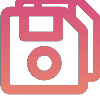
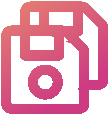
Fixed some issues: 1. BF removed/added/active/inactive/moved on a runner would not mark the runner as dirty 2. renamed GingerUIPage CurrentItem into CurrentItemToSave as some pages had CurrentItem property 3. fixed an issue where creating a new solution would throw an exception 4. Current Selected I

diff --git a/Ginger/Ginger/MainWindow.xaml b/Ginger/Ginger/MainWindow.xaml
@@ -208,7 +208,7 @@
                         </Grid>
 
                         <Grid DockPanel.Dock="Right" HorizontalAlignment="Right" VerticalAlignment="Center">
-                            <usercontrols:ucButton x:Name="xSaveCurrentBtn" ButtonType="ImageButton" ToolTip="No Item Selected" ToolTipOpening="xSaveCurrentBtn_ToolTipOpening" ButtonFontImageSize="20" ButtonImageWidth="20" ButtonImageHeight="20" ButtonImageType="Save" Click="xSaveCurrentBtn_Click" ButtonStyle="{StaticResource $ImageButtonStyle_Menu}" DockPanel.Dock="Right" HorizontalAlignment="Right" VerticalAlignment="Center" Margin="0,0,0,0"/>
+                            <usercontrols:ucButton x:Name="xSaveCurrentBtn" ButtonType="ImageButton" ToolTip="No Item Selected" ToolTipOpening="xSaveCurrentBtn_ToolTipOpening" ButtonFontImageSize="20" ButtonImageWidth="20" ButtonImageHeight="20" ButtonImageType="SaveLightGrey" MouseEnter="xSaveCurrentBtn_MouseEnter" MouseLeave="xSaveCurrentBtn_MouseLeave" Click="xSaveCurrentBtn_Click" ButtonStyle="{StaticResource $ImageButtonStyle_Menu}" DockPanel.Dock="Right" HorizontalAlignment="Right" VerticalAlignment="Center" Margin="0,0,0,0"/>
                             <usercontrols:ImageMakerControl x:Name="xModifiedLabel" SetAsFontImageWithSize="8" Margin="5" Foreground="{DynamicResource $HighlightColor_Orange}" ImageType="Empty" HorizontalAlignment="Right" VerticalAlignment="Top"/>
                         </Grid>
                     </DockPanel>

diff --git a/Ginger/GingerCoreCommon/Repository/RepositoryItemBase.cs b/Ginger/GingerCoreCommon/Repository/RepositoryItemBase.cs
@@ -115,6 +115,8 @@ namespace Amdocs.Ginger.Repository
             }
         }
 
+        private ConcurrentQueue<RepositoryItemBase> mSourceDirtyQueue = new ConcurrentQueue<RepositoryItemBase>();
+        public ConcurrentQueue<RepositoryItemBase> SourceDirtyQueue { get { return mSourceDirtyQueue; } }
         public virtual string ObjFileExt
         {
             get
@@ -1072,6 +1074,10 @@ namespace Amdocs.Ginger.Repository
 
         internal void RaiseDirtyChanged(object sender, EventArgs e)
         {
+            if (!SourceDirtyQueue.Contains(sender as RepositoryItemBase))
+            {
+                SourceDirtyQueue.Enqueue(sender as RepositoryItemBase);
+            }
             DirtyStatus = eDirtyStatus.Modified;
             // RaiseDirtyChangedEvent();
         }
@@ -1081,8 +1087,8 @@ namespace Amdocs.Ginger.Repository
         internal void ChildCollectionChanged(object sender, NotifyCollectionChangedEventArgs e)
         {
             // each change in Observavle will mark the item modified - all NotifyCollectionChangedAction.*
-            DirtyStatus = eDirtyStatus.Modified;
 
+            #region Collection Action - Add
             // if item added set tracking too
             if (e.Action == NotifyCollectionChangedAction.Add)
             {
@@ -1093,6 +1099,7 @@ namespace Amdocs.Ginger.Repository
                         RepositoryItemBase repositoryItemBase = (RepositoryItemBase)obj;
                         repositoryItemBase.StartDirtyTracking();
                         repositoryItemBase.OnDirtyStatusChanged += this.RaiseDirtyChanged;
+                        repositoryItemBase.DirtyStatus = eDirtyStatus.Modified;
                     }
                     else
                     {
@@ -1100,6 +1107,45 @@ namespace Amdocs.Ginger.Repository
                     }
                 }
             }
+            #endregion
+            #region Collection Action - Remove Or Move
+            else if (e.Action == NotifyCollectionChangedAction.Remove || e.Action == NotifyCollectionChangedAction.Move)
+            {
+                foreach (object obj in e.OldItems)
+                {
+                    if (obj is RepositoryItemBase)
+                    {
+                        ((RepositoryItemBase)obj).DirtyStatus = eDirtyStatus.Modified;
+                    }
+                }
+            }
+            #endregion
+            #region Collection Action - Replace
+            else if (e.Action == NotifyCollectionChangedAction.Replace)
+            {
+                foreach (object obj in e.NewItems)
+                {
+                    if (obj is RepositoryItemBase)
+                    {
+                        ((RepositoryItemBase)obj).DirtyStatus = eDirtyStatus.Modified;
+                    }
+                }
+                foreach (object obj in e.OldItems)
+                {
+                    if (obj is RepositoryItemBase)
+                    {
+                        ((RepositoryItemBase)obj).DirtyStatus = eDirtyStatus.Modified;
+                    }
+                }
+
+            }
+            #endregion
+            #region Collection Action - Reset
+            else
+            {
+                DirtyStatus = eDirtyStatus.Modified;
+            }
+            #endregion
         }
 
         public void PauseDirtyTracking()
@@ -1265,6 +1311,10 @@ namespace Amdocs.Ginger.Repository
         public void SetDirtyStatusToNoChange()
         {
             DirtyStatus = eDirtyStatus.NoChange;
+            if(SourceDirtyQueue.Count > 0)
+            {
+                SourceDirtyQueue.Clear();
+            }
 
             // Properties
             foreach (PropertyInfo PI in this.GetType().GetProperties())

diff --git a/Ginger/Ginger/Reports/HTMLReportsConfigurationPage.xaml.cs b/Ginger/Ginger/Reports/HTMLReportsConfigurationPage.xaml.cs
@@ -45,7 +45,7 @@ namespace Ginger.Reports
         {
             mHTMLReportConfiguration =  WorkSpace.Instance.Solution.HTMLReportsConfigurationSetList.Where(x => (x.IsSelected == true)).FirstOrDefault();
             mHTMLReportConfiguration.StartDirtyTracking();
-            CurrentItem = WorkSpace.Instance.Solution;
+            CurrentItemToSave = WorkSpace.Instance.Solution;
             GingerCore.GeneralLib.BindingHandler.ObjFieldBinding(LimitReportFolder, CheckBox.IsCheckedProperty, mHTMLReportConfiguration, nameof(mHTMLReportConfiguration.LimitReportFolderSize));
             GingerCore.GeneralLib.BindingHandler.ObjFieldBinding(xCentralizedReportDataServiceURLTextBox, TextBox.TextProperty, mHTMLReportConfiguration, nameof(mHTMLReportConfiguration.CentralizedReportDataServiceURL));
             GingerCore.GeneralLib.BindingHandler.ObjFieldBinding(xCentralizedHtmlReportServiceURLTextBox, TextBox.TextProperty, mHTMLReportConfiguration, nameof(mHTMLReportConfiguration.CentralizedHtmlReportServiceURL));

diff --git a/Ginger/Ginger/RunSetPageLib/RunnerPage.xaml.cs b/Ginger/Ginger/RunSetPageLib/RunnerPage.xaml.cs
@@ -257,6 +257,7 @@ namespace Ginger.Run
             {
                 BusinessFlow bff = (BusinessFlow)((RunnerItemPage)sender).ItemObject;
                 ExecutorEngine.BusinessFlows.Remove(bff);
+                mExecutorEngine.GingerRunner.DirtyStatus = eDirtyStatus.Modified;
             }
         }
 
@@ -285,6 +286,7 @@ namespace Ginger.Run
             {
                 mExecutorEngine.BusinessFlows.Add(bf);
             }
+            mExecutorEngine.GingerRunner.DirtyStatus = eDirtyStatus.Modified;
         }
 
         public void LoadBusinessflowRunnerItem(bool ViewMode = false)
@@ -421,6 +423,7 @@ namespace Ginger.Run
             {
                 ((RunnerItemPage)sender).xItemName.Foreground = FindResource("$BackgroundColor_DarkBlue") as Brush;
             }
+            mExecutorEngine.GingerRunner.DirtyStatus = eDirtyStatus.Modified;
         }
         private void Businessflow_ClickAutomate(object sender, RoutedEventArgs e)
         {

diff --git a/Ginger/Ginger/Reports/HTMLReportTemplatePage.xaml.cs b/Ginger/Ginger/Reports/HTMLReportTemplatePage.xaml.cs
@@ -78,7 +78,7 @@ namespace Ginger.Reports
             _HTMLReportConfiguration.HTMLReportConfigurationOperations = reportConfigurationOperations;
 
             _HTMLReportConfiguration = new HTMLReportConfiguration("", false, reportConfigurationOperations);
-            CurrentItem = _HTMLReportConfiguration;
+            CurrentItemToSave = _HTMLReportConfiguration;
             
 
             InitializeComponent();
@@ -95,7 +95,7 @@ namespace Ginger.Reports
             _existingTemplatePage = true;
             _HTMLReportConfiguration = EnchancingLoadedFieldsWithDataAndValidating(HTMLReportConfiguration);
             _HTMLReportConfiguration.PropertyChanged += _HTMLReportConfiguration_PropertyChanged;
-            CurrentItem = _HTMLReportConfiguration;
+            CurrentItemToSave = _HTMLReportConfiguration;
             SetControls();
             SetLoadedLogoImage();
             SetHTMLReportsConfigFieldsGridsView();

diff --git a/Ginger/Ginger/RunSetPageLib/NewRunSetPage.xaml.cs b/Ginger/Ginger/RunSetPageLib/NewRunSetPage.xaml.cs
@@ -556,6 +556,7 @@ namespace Ginger.Run
             else if (e.Action == NotifyCollectionChangedAction.Move)
             {
                 mCurrentSelectedRunner.BusinessflowRunnerItems.Move(e.OldStartingIndex, e.NewStartingIndex);
+                mCurrentSelectedRunner.ExecutorEngine.GingerRunner.DirtyStatus = eDirtyStatus.Modified;
             }
             this.Dispatcher.Invoke(() =>
             {
@@ -1425,7 +1426,7 @@ namespace Ginger.Run
                     xRunSetLoadingPnl.Visibility = Visibility.Visible;
                     xRunsetPageGrid.Visibility = Visibility.Collapsed;
                     mRunSetConfig = runSetConfig;
-                    CurrentItem = mRunSetConfig;
+                    CurrentItemToSave = mRunSetConfig;
                     mRunSetConfig.SaveBackup();
 
                     mRunSetConfig.StartDirtyTracking();

diff --git a/Ginger/Ginger/ExternalConfigurations/SealightsExternalConfigurationsPage.xaml.cs b/Ginger/Ginger/ExternalConfigurations/SealightsExternalConfigurationsPage.xaml.cs
@@ -36,7 +36,7 @@ namespace Ginger.Configurations
     /// </summary>
     public partial class SealightsExternalConfigurationsPage : GingerUIPage
     {
-        SealightsConfiguration _SealightsConfiguration = new SealightsConfiguration();
+        SealightsConfiguration _SealightsConfiguration;
 
         public SealightsExternalConfigurationsPage()
         {
@@ -47,9 +47,9 @@ namespace Ginger.Configurations
         private void Init()
         {
             _SealightsConfiguration = WorkSpace.Instance.Solution.SealightsConfiguration;
-            _SealightsConfiguration.StartDirtyTracking();
-            CurrentItem = WorkSpace.Instance.Solution;
+            CurrentItemToSave = WorkSpace.Instance.Solution;
             SetControls();
+            _SealightsConfiguration.StartDirtyTracking();
         }
 
         private void SetControls()

diff --git a/Ginger/GingerCoreNET/WorkSpaceLib/SolutionOperations.cs b/Ginger/GingerCoreNET/WorkSpaceLib/SolutionOperations.cs
@@ -200,9 +200,12 @@ namespace Ginger.SolutionGeneral
                 Solution.RepositorySerializer.SaveToFile(Solution, Solution.FilePath);
                 Solution.SetDirtyStatusToNoChange();
                 Reporter.HideStatusMessage();
-                if (WorkSpace.Instance.SolutionRepository.ModifiedFiles.Contains(Solution))
+                if (WorkSpace.Instance.SolutionRepository != null)
                 {
-                    WorkSpace.Instance.SolutionRepository.ModifiedFiles.Remove(Solution);
+                    if (WorkSpace.Instance.SolutionRepository.ModifiedFiles.Contains(Solution))
+                    {
+                        WorkSpace.Instance.SolutionRepository.ModifiedFiles.Remove(Solution);
+                    }
                 }
             }
         }

diff --git a/Ginger/Ginger/DataSource/DataSourcePage.xaml.cs b/Ginger/Ginger/DataSource/DataSourcePage.xaml.cs
@@ -60,7 +60,7 @@ namespace Ginger.DataSource
             if (dsDetails != null)    
             {
                 mDSDetails = dsDetails;
-                CurrentItem= mDSDetails;
+                CurrentItemToSave= mDSDetails;
                 GingerCore.GeneralLib.BindingHandler.ObjFieldBinding(DataSourceNameTextBox, TextBox.TextProperty, mDSDetails, DataSourceBase.Fields.Name);
                 GingerCore.GeneralLib.BindingHandler.ObjFieldBinding(txtDataSourcePath, TextBox.TextProperty, mDSDetails, DataSourceBase.Fields.FilePath, BindingMode.OneWay);
                 GingerCore.GeneralLib.BindingHandler.ObjFieldBinding(DataSourceTypeTextBox, TextBox.TextProperty, mDSDetails, DataSourceBase.Fields.DSType, BindingMode.OneWay);

diff --git a/Ginger/Ginger/UserControlsLib/GingerUIPage.cs b/Ginger/Ginger/UserControlsLib/GingerUIPage.cs
@@ -8,7 +8,7 @@ namespace Ginger.UserControlsLib
     public abstract class GingerUIPage : Page
     {
         private RepositoryItemBase mCurrentItem;
-        protected RepositoryItemBase CurrentItem { get { return mCurrentItem; } set { if (mCurrentItem != value) { mCurrentItem = value; WorkSpace.Instance.CurrentSelectedItem = mCurrentItem; } } }
+        protected RepositoryItemBase CurrentItemToSave { get { return mCurrentItem; } set { if (mCurrentItem != value) { mCurrentItem = value; WorkSpace.Instance.CurrentSelectedItem = mCurrentItem; } } }
         protected GingerUIPage()
         {
             IsVisibleChanged += IsVisibleChangedHandler;

diff --git a/Ginger/Ginger/MainWindow.xaml.cs b/Ginger/Ginger/MainWindow.xaml.cs
@@ -1515,5 +1515,14 @@ namespace Ginger
                 AddSubMenuItem(xExtraSolutionOperationsMainMenuItem, "ALM Defect's Profiles", "ALM", ALMDefectsProfiles_Click, insertIndex, iconType: eImageType.Bug);
             }
         }
+
+        private void xSaveCurrentBtn_MouseEnter(object sender, MouseEventArgs e)
+        {
+            xSaveCurrentBtn.ButtonImageType = eImageType.SaveGradient;
+        }
+        private void xSaveCurrentBtn_MouseLeave(object sender, MouseEventArgs e)
+        {
+            xSaveCurrentBtn.ButtonImageType = eImageType.SaveLightGrey;
+        }
     }
 }

diff --git a/Ginger/Ginger/Environments/ApplicationPage.xaml.cs b/Ginger/Ginger/Environments/ApplicationPage.xaml.cs
@@ -43,7 +43,7 @@ namespace Ginger.Environments
             InitializeComponent();
             mEnvApplication = app;
             mContext = context;
-            CurrentItem = mContext.Environment;
+            CurrentItemToSave = mContext.Environment;
             GingerCore.GeneralLib.BindingHandler.ObjFieldBinding(ApplicationNameTextBox, TextBox.TextProperty, app, nameof(EnvApplication.Name));
             GingerCore.GeneralLib.BindingHandler.ObjFieldBinding(DescriptionTextBox, TextBox.TextProperty, app, nameof(EnvApplication.Description));
 
